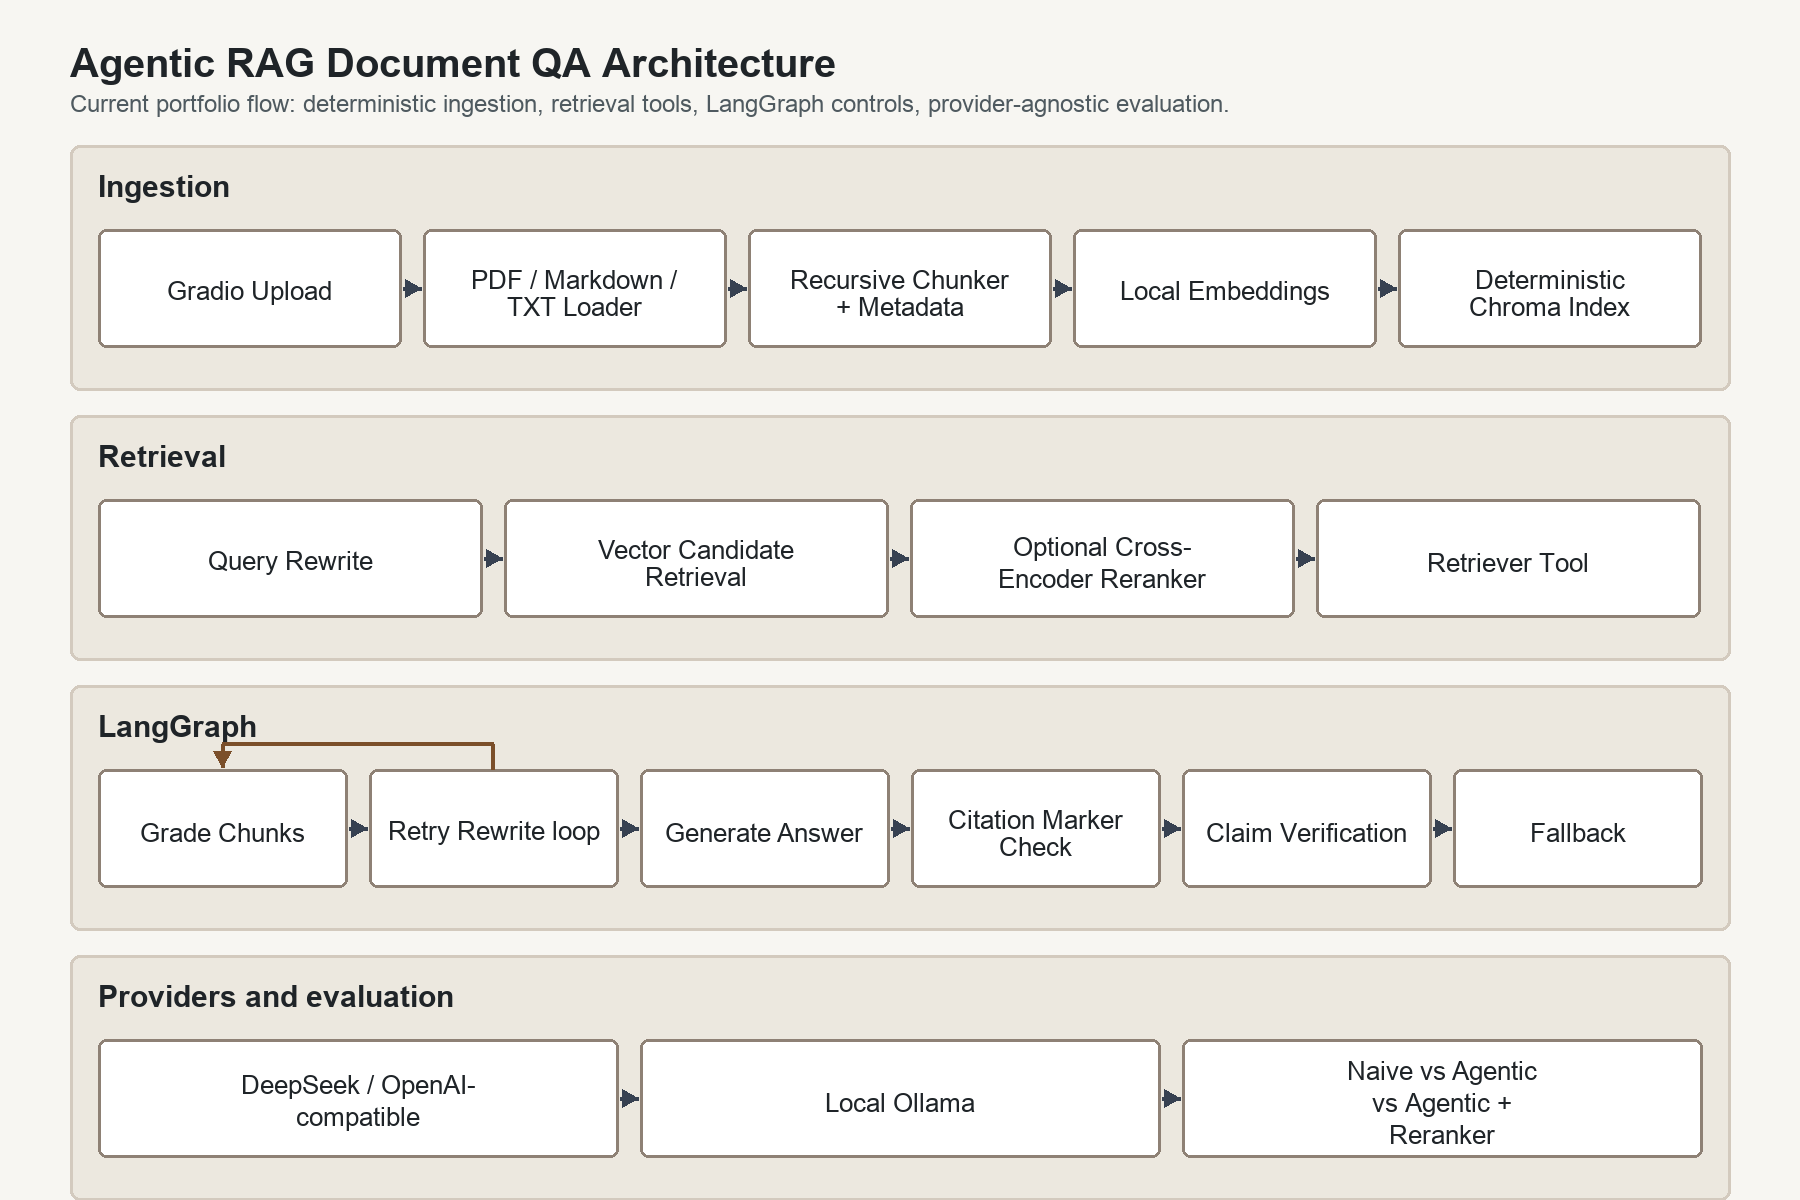
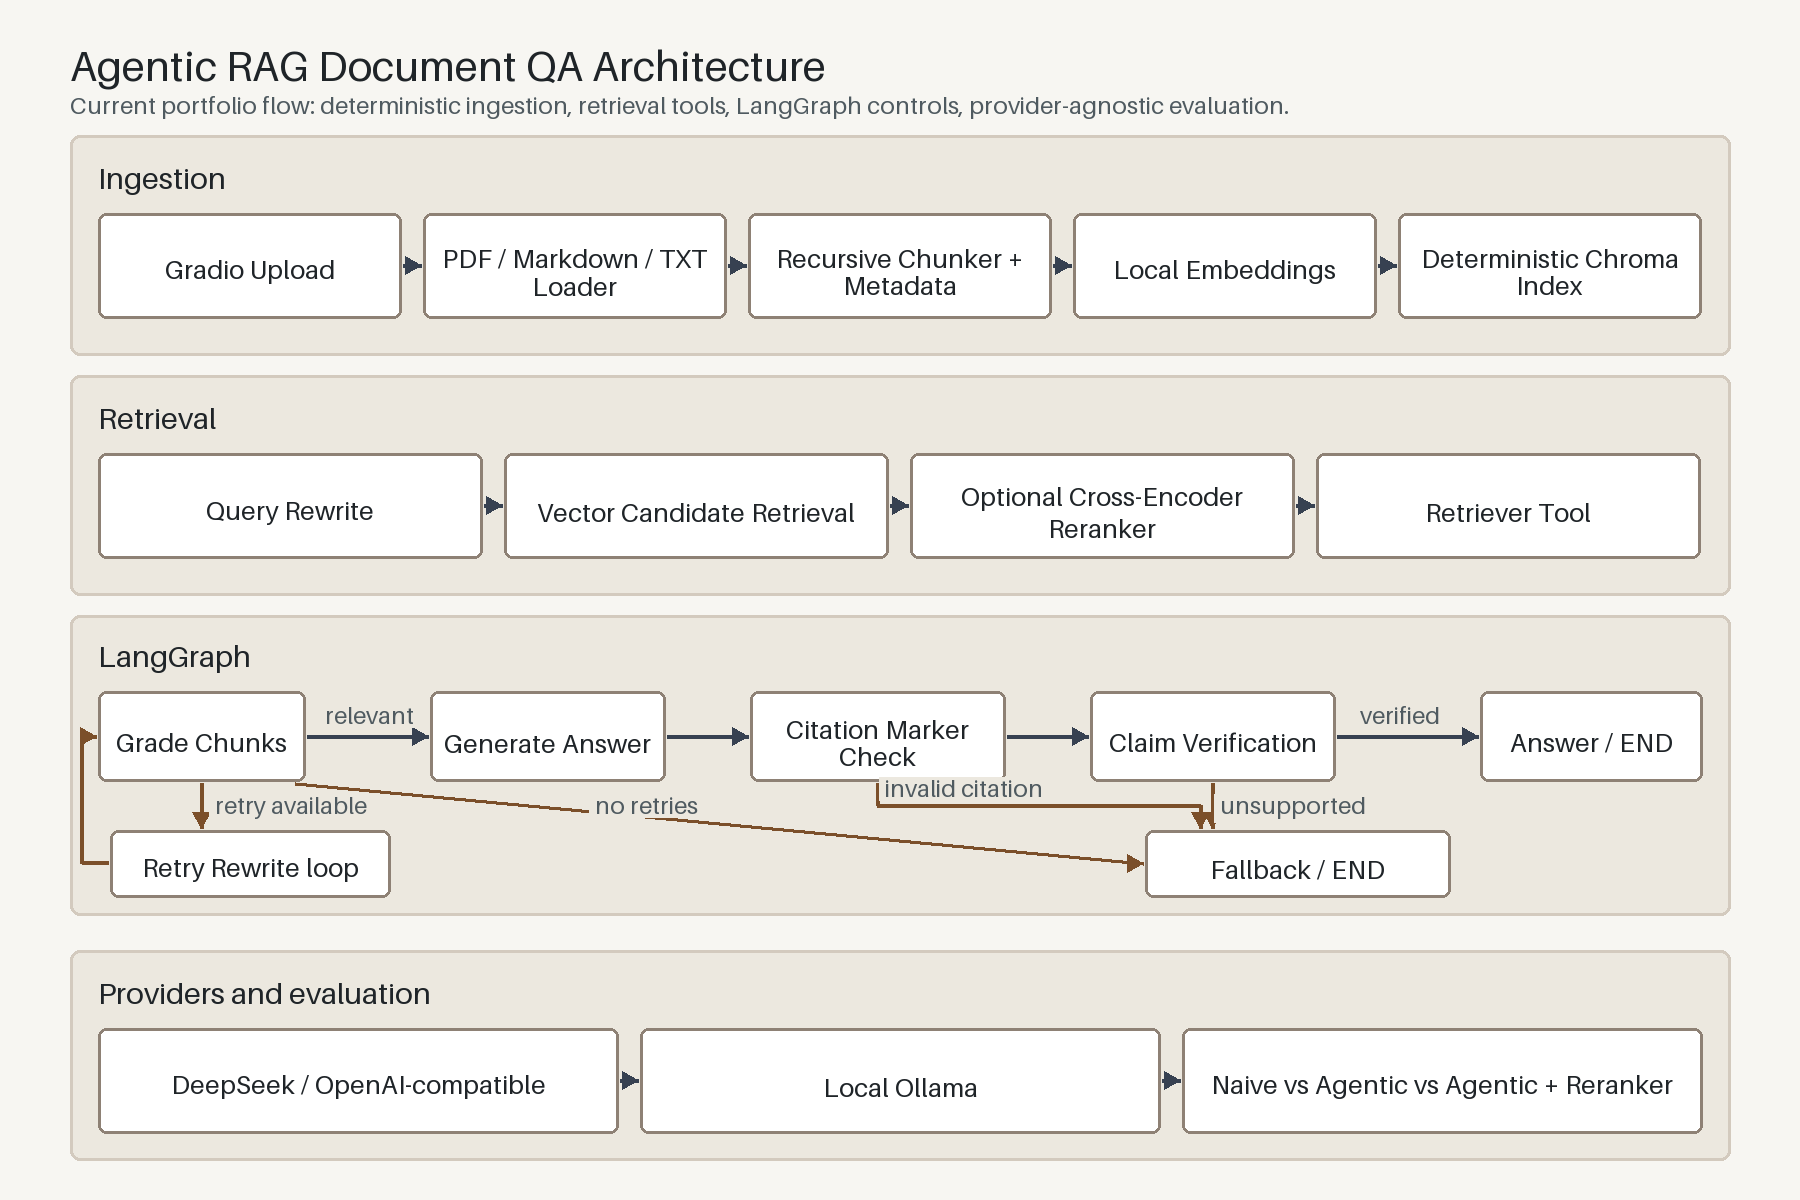
docs: correct architecture workflow

diff --git a/scripts/generate_architecture.py b/scripts/generate_architecture.py
@@ -2,8 +2,8 @@
 
 from __future__ import annotations
 
+from itertools import pairwise
 from pathlib import Path
-from textwrap import wrap
 
 from PIL import Image, ImageDraw, ImageFont
 
@@ -24,22 +24,14 @@ ARROW = "#374151"
 LOOP = "#7b4f2a"
 
 
-def load_font(size: int, bold: bool = False) -> ImageFont.FreeTypeFont:
-    candidates = [
-        "/System/Library/Fonts/Supplemental/Arial Bold.ttf" if bold else "/System/Library/Fonts/Supplemental/Arial.ttf",
-        "/System/Library/Fonts/Supplemental/Helvetica Bold.ttf" if bold else "/System/Library/Fonts/Supplemental/Helvetica.ttf",
-        "/usr/share/fonts/truetype/dejavu/DejaVuSans-Bold.ttf" if bold else "/usr/share/fonts/truetype/dejavu/DejaVuSans.ttf",
-    ]
-    for candidate in candidates:
-        try:
-            return ImageFont.truetype(candidate, size)
-        except OSError:
-            continue
-    return ImageFont.load_default()
+def load_font(size: int) -> ImageFont.FreeTypeFont | ImageFont.ImageFont:
+    """Load Pillow's bundled font at an explicit size for portable rendering."""
+
+    return ImageFont.load_default(size=size)
 
 
-TITLE_FONT = load_font(40, bold=True)
-BAND_FONT = load_font(30, bold=True)
+TITLE_FONT = load_font(42)
+BAND_FONT = load_font(30)
 BODY_FONT = load_font(26)
 SMALL_FONT = load_font(24)
 
@@ -55,31 +47,74 @@ def draw_centered_text(
     text: str,
     font: ImageFont.ImageFont,
     fill: str = TEXT,
-    max_chars: int = 18,
 ) -> None:
     lines: list[str] = []
     for part in text.split("\n"):
-        lines.extend(wrap(part, width=max_chars) or [""])
+        words = part.split()
+        current_line = ""
+        max_width = box[2] - box[0] - 24
+        for word in words:
+            candidate = f"{current_line} {word}".strip()
+            if current_line and text_size(draw, candidate, font)[0] > max_width:
+                lines.append(current_line)
+                current_line = word
+            else:
+                current_line = candidate
+        lines.append(current_line)
 
     line_heights = [text_size(draw, line, font)[1] for line in lines]
     total_height = sum(line_heights) + (len(lines) - 1) * 8
     y = box[1] + ((box[3] - box[1]) - total_height) / 2
 
-    for line, line_height in zip(lines, line_heights):
+    for line, line_height in zip(lines, line_heights, strict=True):
         line_width, _ = text_size(draw, line, font)
         x = box[0] + ((box[2] - box[0]) - line_width) / 2
         draw.text((x, y), line, font=font, fill=fill)
         y += line_height + 8
 
 
-def draw_arrow(draw: ImageDraw.ImageDraw, start: tuple[int, int], end: tuple[int, int], fill: str = ARROW) -> None:
-    draw.line([start, end], fill=fill, width=4)
-    x, y = end
-    if end[0] >= start[0]:
-        points = [(x, y), (x - 16, y - 9), (x - 16, y + 9)]
+def draw_path_arrow(
+    draw: ImageDraw.ImageDraw,
+    points: list[tuple[int, int]],
+    fill: str = ARROW,
+) -> None:
+    """Draw a directed line whose final segment determines the arrow direction."""
+
+    draw.line(points, fill=fill, width=4, joint="curve")
+    previous_x, previous_y = points[-2]
+    x, y = points[-1]
+    delta_x = x - previous_x
+    delta_y = y - previous_y
+
+    if abs(delta_x) >= abs(delta_y) and delta_x >= 0:
+        arrow = [(x, y), (x - 16, y - 9), (x - 16, y + 9)]
+    elif abs(delta_x) >= abs(delta_y):
+        arrow = [(x, y), (x + 16, y - 9), (x + 16, y + 9)]
+    elif delta_y >= 0:
+        arrow = [(x, y), (x - 9, y - 16), (x + 9, y - 16)]
     else:
-        points = [(x, y), (x + 16, y - 9), (x + 16, y + 9)]
-    draw.polygon(points, fill=fill)
+        arrow = [(x, y), (x - 9, y + 16), (x + 9, y + 16)]
+    draw.polygon(arrow, fill=fill)
+
+
+def draw_arrow(
+    draw: ImageDraw.ImageDraw,
+    start: tuple[int, int],
+    end: tuple[int, int],
+    fill: str = ARROW,
+) -> None:
+    draw_path_arrow(draw, [start, end], fill=fill)
+
+
+def draw_branch_label(
+    draw: ImageDraw.ImageDraw,
+    position: tuple[int, int],
+    label: str,
+) -> None:
+    bbox = draw.textbbox(position, label, font=SMALL_FONT)
+    padded = (bbox[0] - 6, bbox[1] - 3, bbox[2] + 6, bbox[3] + 3)
+    draw.rectangle(padded, fill=BAND_FILL)
+    draw.text(position, label, font=SMALL_FONT, fill=MUTED)
 
 
 def draw_box(draw: ImageDraw.ImageDraw, box: tuple[int, int, int, int], label: str) -> None:
@@ -92,15 +127,14 @@ def draw_band(
     y: int,
     title: str,
     labels: list[str],
-    loop: tuple[int, int] | None = None,
+    band_h: int = 220,
 ) -> None:
     x0, x1 = 70, WIDTH - 70
-    band_h = 245
     draw.rounded_rectangle((x0, y, x1, y + band_h), radius=10, fill=BAND_FILL, outline=BAND_OUTLINE, width=3)
     draw.text((x0 + 28, y + 24), title, font=BAND_FONT, fill=TEXT)
 
-    box_top = y + 84
-    box_h = 118
+    box_top = y + 78
+    box_h = 105
     gap = 22
     usable_w = x1 - x0 - 56
     box_w = int((usable_w - gap * (len(labels) - 1)) / len(labels))
@@ -112,29 +146,119 @@ def draw_band(
         boxes.append(box)
         draw_box(draw, box, label)
 
-    for left_box, right_box in zip(boxes, boxes[1:]):
+    for left_box, right_box in pairwise(boxes):
         draw_arrow(
             draw,
             (left_box[2] + 2, (left_box[1] + left_box[3]) // 2),
             (right_box[0] - 2, (right_box[1] + right_box[3]) // 2),
         )
 
-    if loop:
-        from_index, to_index = loop
-        source = boxes[from_index]
-        target = boxes[to_index]
-        top_y = box_top - 25
-        source_x = (source[0] + source[2]) // 2
-        target_x = (target[0] + target[2]) // 2
-        draw.line(
-            [(source_x, source[1]), (source_x, top_y), (target_x, top_y), (target_x, target[1] - 2)],
-            fill=LOOP,
-            width=4,
-        )
-        draw.polygon(
-            [(target_x, target[1] - 2), (target_x - 9, target[1] - 18), (target_x + 9, target[1] - 18)],
-            fill=LOOP,
-        )
+
+def draw_langgraph_band(draw: ImageDraw.ImageDraw, y: int) -> None:
+    """Draw the graph as conditional routes instead of a sequential pipeline."""
+
+    x0, x1 = 70, WIDTH - 70
+    band_h = 300
+    draw.rounded_rectangle(
+        (x0, y, x1, y + band_h),
+        radius=10,
+        fill=BAND_FILL,
+        outline=BAND_OUTLINE,
+        width=3,
+    )
+    draw.text((x0 + 28, y + 22), "LangGraph", font=BAND_FONT, fill=TEXT)
+
+    grade = (98, y + 76, 305, y + 166)
+    generate = (430, y + 76, 665, y + 166)
+    citation = (750, y + 76, 1005, y + 166)
+    verification = (1090, y + 76, 1335, y + 166)
+    grounded = (1480, y + 76, 1702, y + 166)
+    retry = (110, y + 215, 390, y + 282)
+    fallback = (1145, y + 215, 1450, y + 282)
+
+    for box, label in [
+        (grade, "Grade Chunks"),
+        (generate, "Generate Answer"),
+        (citation, "Citation Marker Check"),
+        (verification, "Claim Verification"),
+        (grounded, "Answer / END"),
+        (retry, "Retry Rewrite loop"),
+        (fallback, "Fallback / END"),
+    ]:
+        draw_box(draw, box, label)
+
+    center_y = (grade[1] + grade[3]) // 2
+    draw_arrow(draw, (grade[2] + 2, center_y), (generate[0] - 2, center_y))
+    draw_branch_label(draw, (325, center_y - 36), "relevant")
+    draw_arrow(
+        draw,
+        (generate[2] + 2, center_y),
+        (citation[0] - 2, center_y),
+    )
+    draw_arrow(
+        draw,
+        (citation[2] + 2, center_y),
+        (verification[0] - 2, center_y),
+    )
+    draw_arrow(
+        draw,
+        (verification[2] + 2, center_y),
+        (grounded[0] - 2, center_y),
+    )
+    draw_branch_label(draw, (1360, center_y - 36), "verified")
+
+    draw_path_arrow(
+        draw,
+        [
+            ((grade[0] + grade[2]) // 2, grade[3] + 2),
+            ((grade[0] + grade[2]) // 2, retry[1] - 2),
+        ],
+        fill=LOOP,
+    )
+    draw_branch_label(draw, (215, y + 175), "retry available")
+    draw_path_arrow(
+        draw,
+        [
+            (retry[0] - 2, (retry[1] + retry[3]) // 2),
+            (82, (retry[1] + retry[3]) // 2),
+            (82, center_y),
+            (grade[0] - 2, center_y),
+        ],
+        fill=LOOP,
+    )
+
+    draw_path_arrow(
+        draw,
+        [
+            (grade[2] - 10, grade[3] + 2),
+            (fallback[0] - 2, (fallback[1] + fallback[3]) // 2),
+        ],
+        fill=LOOP,
+    )
+    draw_branch_label(draw, (595, y + 175), "no retries")
+
+    draw_path_arrow(
+        draw,
+        [
+            ((citation[0] + citation[2]) // 2, citation[3] + 2),
+            ((citation[0] + citation[2]) // 2, y + 190),
+            (1200, y + 190),
+            (1200, fallback[1] - 2),
+        ],
+        fill=LOOP,
+    )
+    draw_branch_label(draw, (885, y + 158), "invalid citation")
+
+    draw_path_arrow(
+        draw,
+        [
+            ((verification[0] + verification[2]) // 2, verification[3] + 2),
+            ((verification[0] + verification[2]) // 2, fallback[1] - 2),
+        ],
+        fill=LOOP,
+    )
+    draw_branch_label(draw, (1220, y + 175), "unsupported")
+
 
 def main() -> None:
     image = Image.new("RGB", (WIDTH, HEIGHT), BACKGROUND)
@@ -150,7 +274,7 @@ def main() -> None:
 
     bands = [
         (
-            145,
+            135,
             "Ingestion",
             [
                 "Gradio Upload",
@@ -159,10 +283,9 @@ def main() -> None:
                 "Local Embeddings",
                 "Deterministic Chroma Index",
             ],
-            None,
         ),
         (
-            415,
+            375,
             "Retrieval",
             [
                 "Query Rewrite",
@@ -170,35 +293,23 @@ def main() -> None:
                 "Optional Cross-Encoder Reranker",
                 "Retriever Tool",
             ],
-            None,
         ),
         (
-            685,
-            "LangGraph",
-            [
-                "Grade Chunks",
-                "Retry Rewrite loop",
-                "Generate Answer",
-                "Citation Marker Check",
-                "Claim Verification",
-                "Fallback",
-            ],
-            (1, 0),
-        ),
-        (
-            955,
+            950,
             "Providers and evaluation",
             [
                 "DeepSeek / OpenAI-compatible",
                 "Local Ollama",
                 "Naive vs Agentic vs Agentic + Reranker",
             ],
-            None,
+            210,
         ),
     ]
 
-    for band in bands:
-        draw_band(draw, *band)
+    draw_band(draw, *bands[0])
+    draw_band(draw, *bands[1])
+    draw_langgraph_band(draw, 615)
+    draw_band(draw, *bands[2])
 
     OUTPUT_PATH.parent.mkdir(parents=True, exist_ok=True)
     image.save(OUTPUT_PATH)